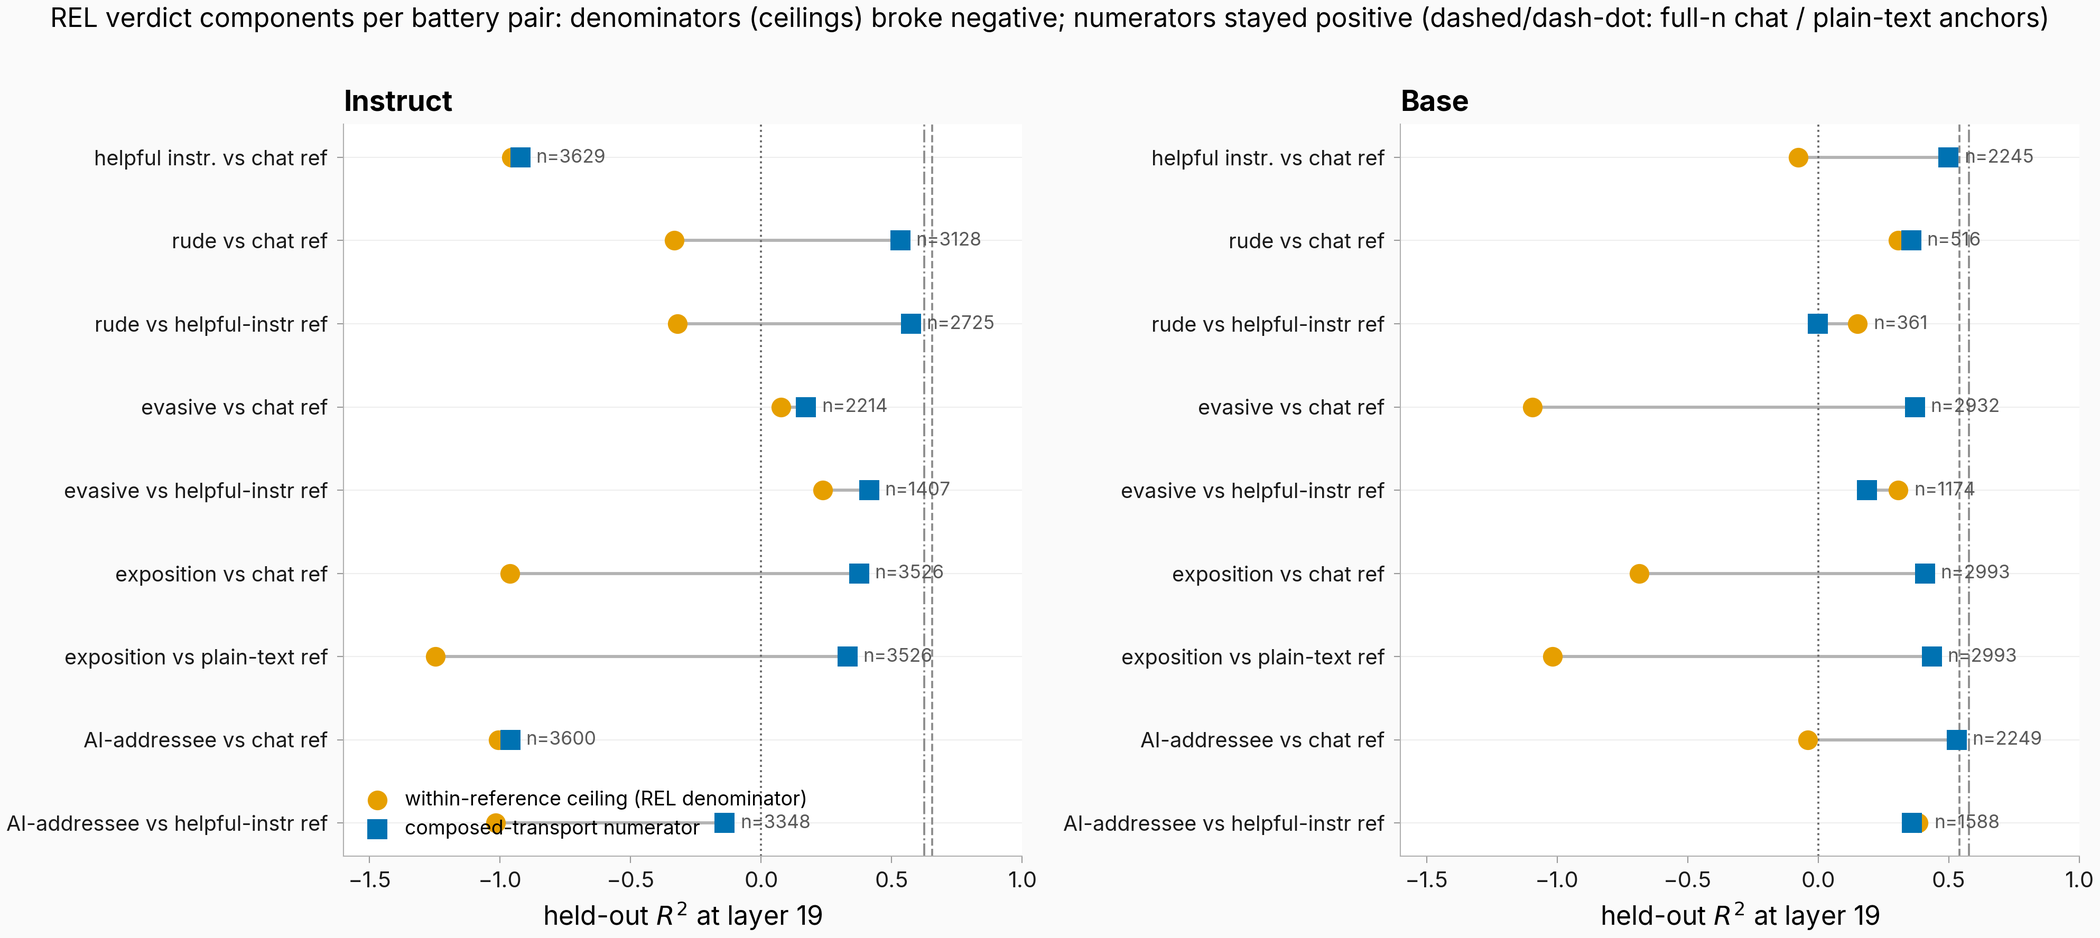
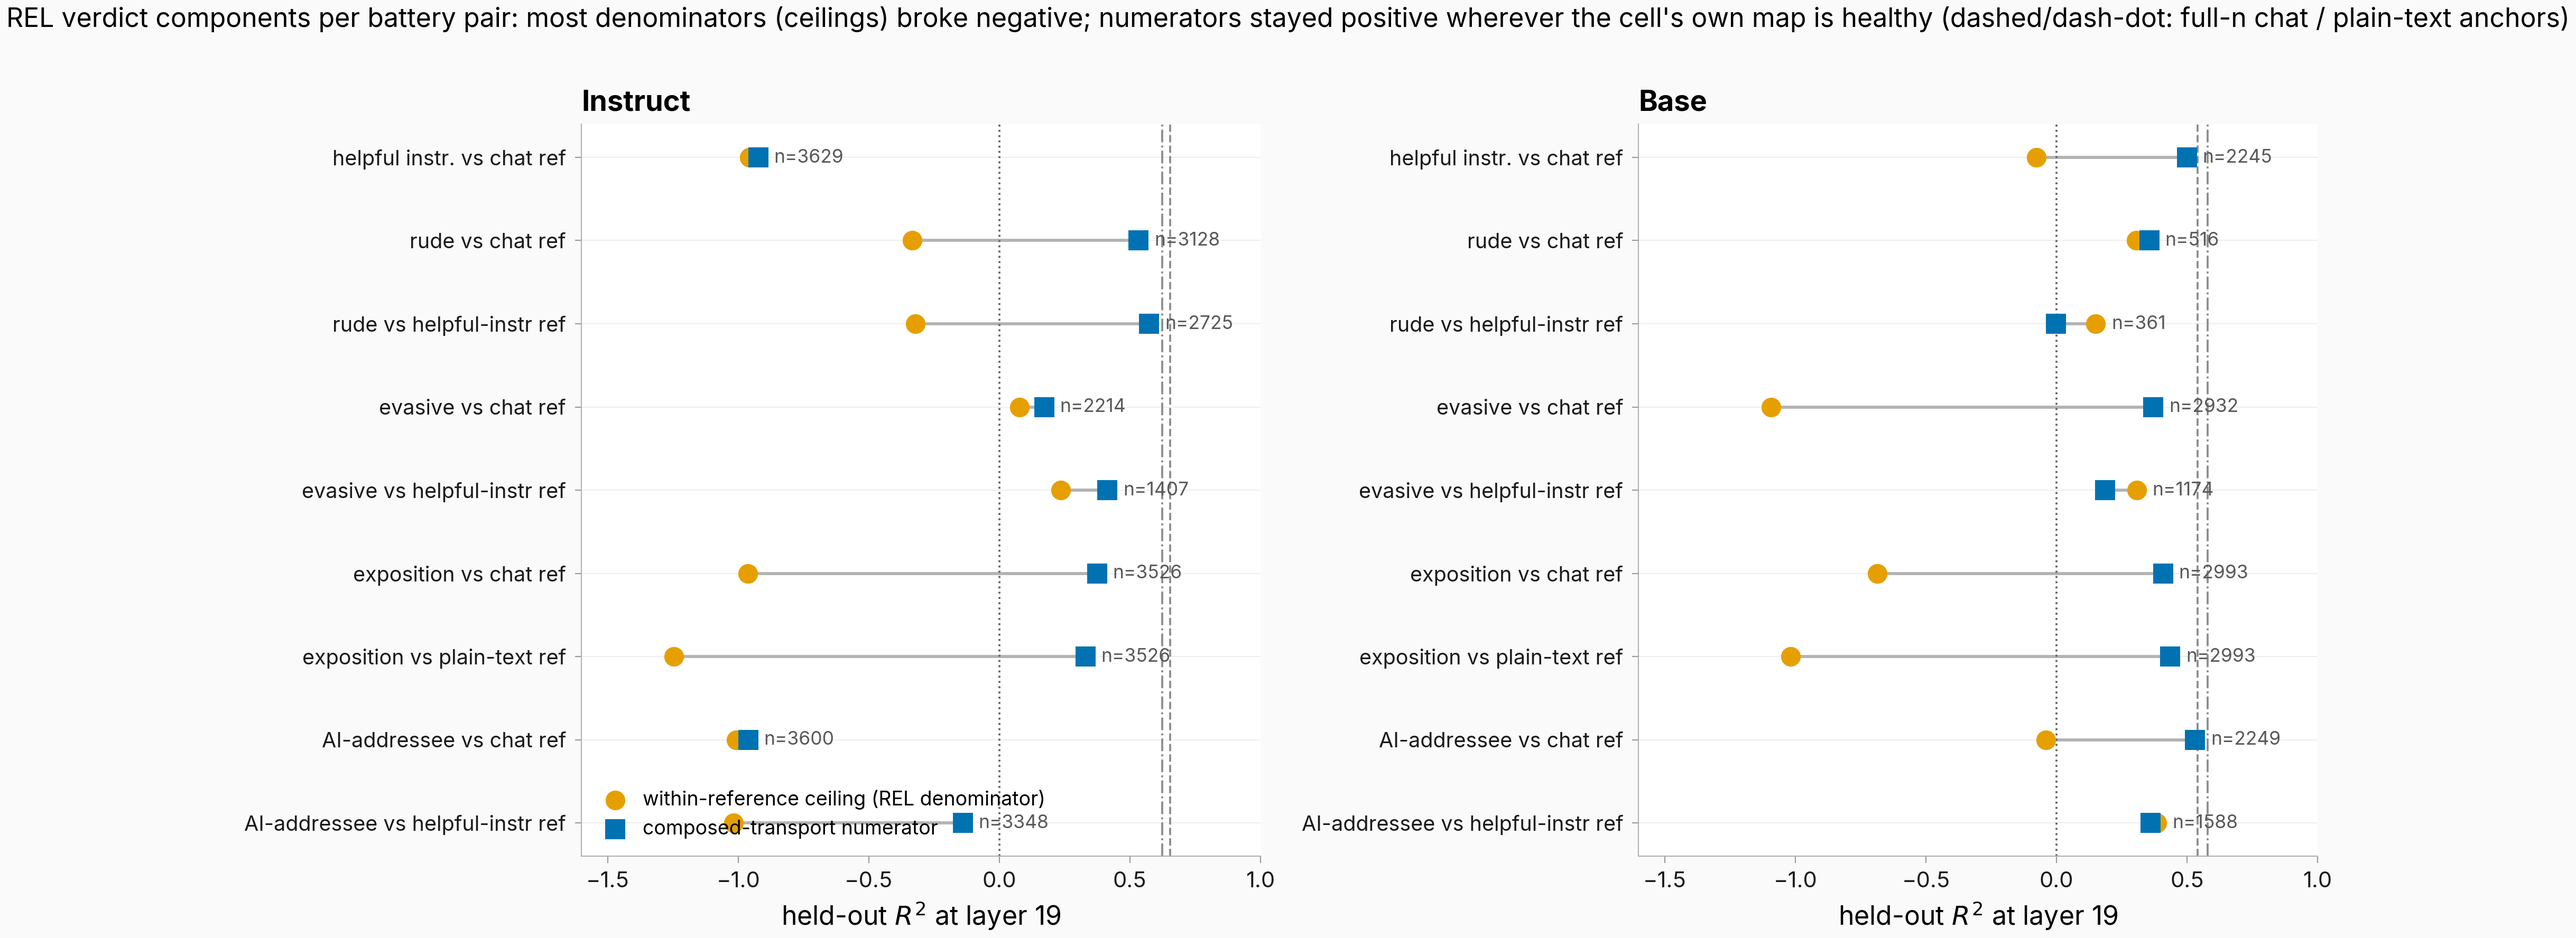
figures: issue #1417 — correct ceiling_vs_numerator title (3 instruct numerators are negative; qualify 'wherever the cell's own map is healthy')

diff --git a/scripts/issue1417_analyzer_figs.py b/scripts/issue1417_analyzer_figs.py
@@ -194,8 +194,9 @@ def fig_ceiling_vs_numerator() -> None:
         ax.set_xlim(-1.6, 1.0)
     axes[0].legend(loc="lower left", fontsize=9)
     fig.suptitle(
-        "REL verdict components per battery pair: denominators (ceilings) broke negative;"
-        " numerators stayed positive (dashed/dash-dot: full-n chat / plain-text anchors)",
+        "REL verdict components per battery pair: most denominators (ceilings) broke negative;"
+        " numerators stayed positive wherever the cell's own map is healthy"
+        " (dashed/dash-dot: full-n chat / plain-text anchors)",
         fontsize=12,
         y=1.005,
     )
